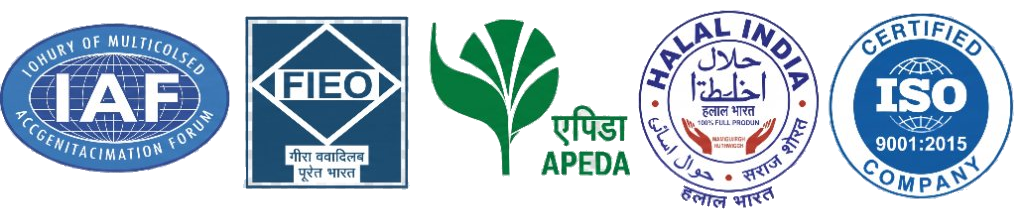
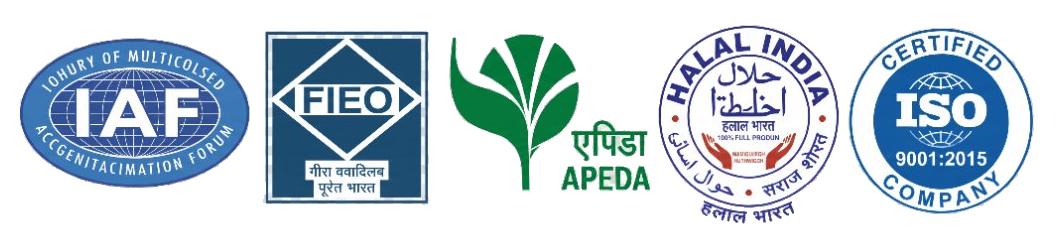
Wrap certificates in clean rounded white background cards in footer to eliminate blur and broken dark edges

diff --git a/client/src/components/layout/Footer.jsx b/client/src/components/layout/Footer.jsx
@@ -206,11 +206,13 @@ export default function Footer() {
                 Certifications
               </h4>
               <div className="pt-1">
-                <img 
-                  src="/certificates.png" 
-                  alt="IAF, FIEO, APEDA, Halal, ISO 9001:2015 Certifications" 
-                  className="w-full max-w-[240px] h-auto object-contain hover:scale-105 transition-transform" 
-                />
+                <div className="bg-white rounded-xl p-2 sm:p-2.5 shadow-sm border border-slate-200 inline-block w-full max-w-[260px] transition hover:shadow-md">
+                  <img 
+                    src="/certificates.png" 
+                    alt="IAF, FIEO, APEDA, Halal, ISO 9001:2015 Certifications" 
+                    className="w-full h-auto object-contain" 
+                  />
+                </div>
               </div>
             </div>
 
@@ -328,13 +330,15 @@ export default function Footer() {
             </div>
           </div>
 
-          {/* Official Certificates in a clean balanced line */}
+          {/* Official Certificates in a clean balanced line on White Card */}
           <div className="flex items-center justify-center">
-            <img 
-              src="/certificates.png" 
-              alt="Official IAF, FIEO, APEDA, Halal, ISO 9001:2015 Export Certifications" 
-              className="h-12 sm:h-16 w-auto max-w-full object-contain hover:scale-105 transition-transform drop-shadow-sm" 
-            />
+            <div className="bg-white rounded-2xl p-2.5 sm:p-3.5 shadow-sm border border-slate-200/80 flex items-center justify-center transition hover:shadow-md">
+              <img 
+                src="/certificates.png" 
+                alt="Official IAF, FIEO, APEDA, Halal, ISO 9001:2015 Export Certifications" 
+                className="h-10 sm:h-14 w-auto max-w-full object-contain" 
+              />
+            </div>
           </div>
         </div>
 
